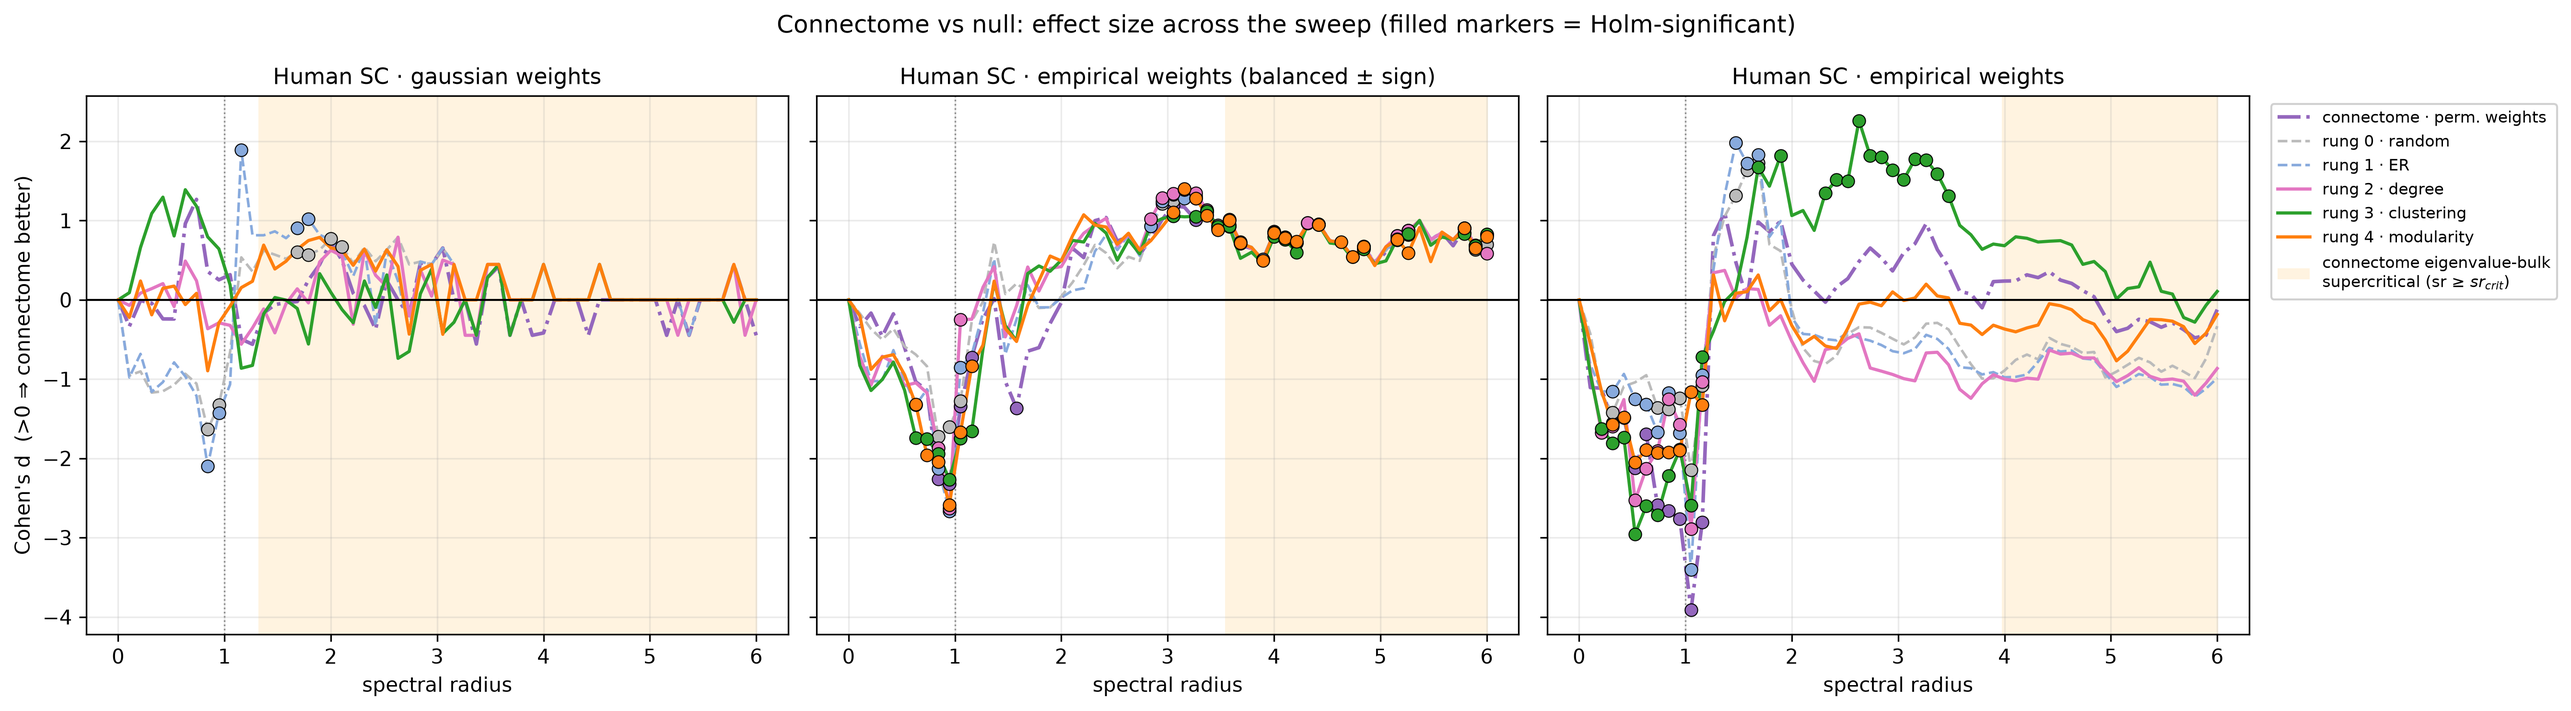
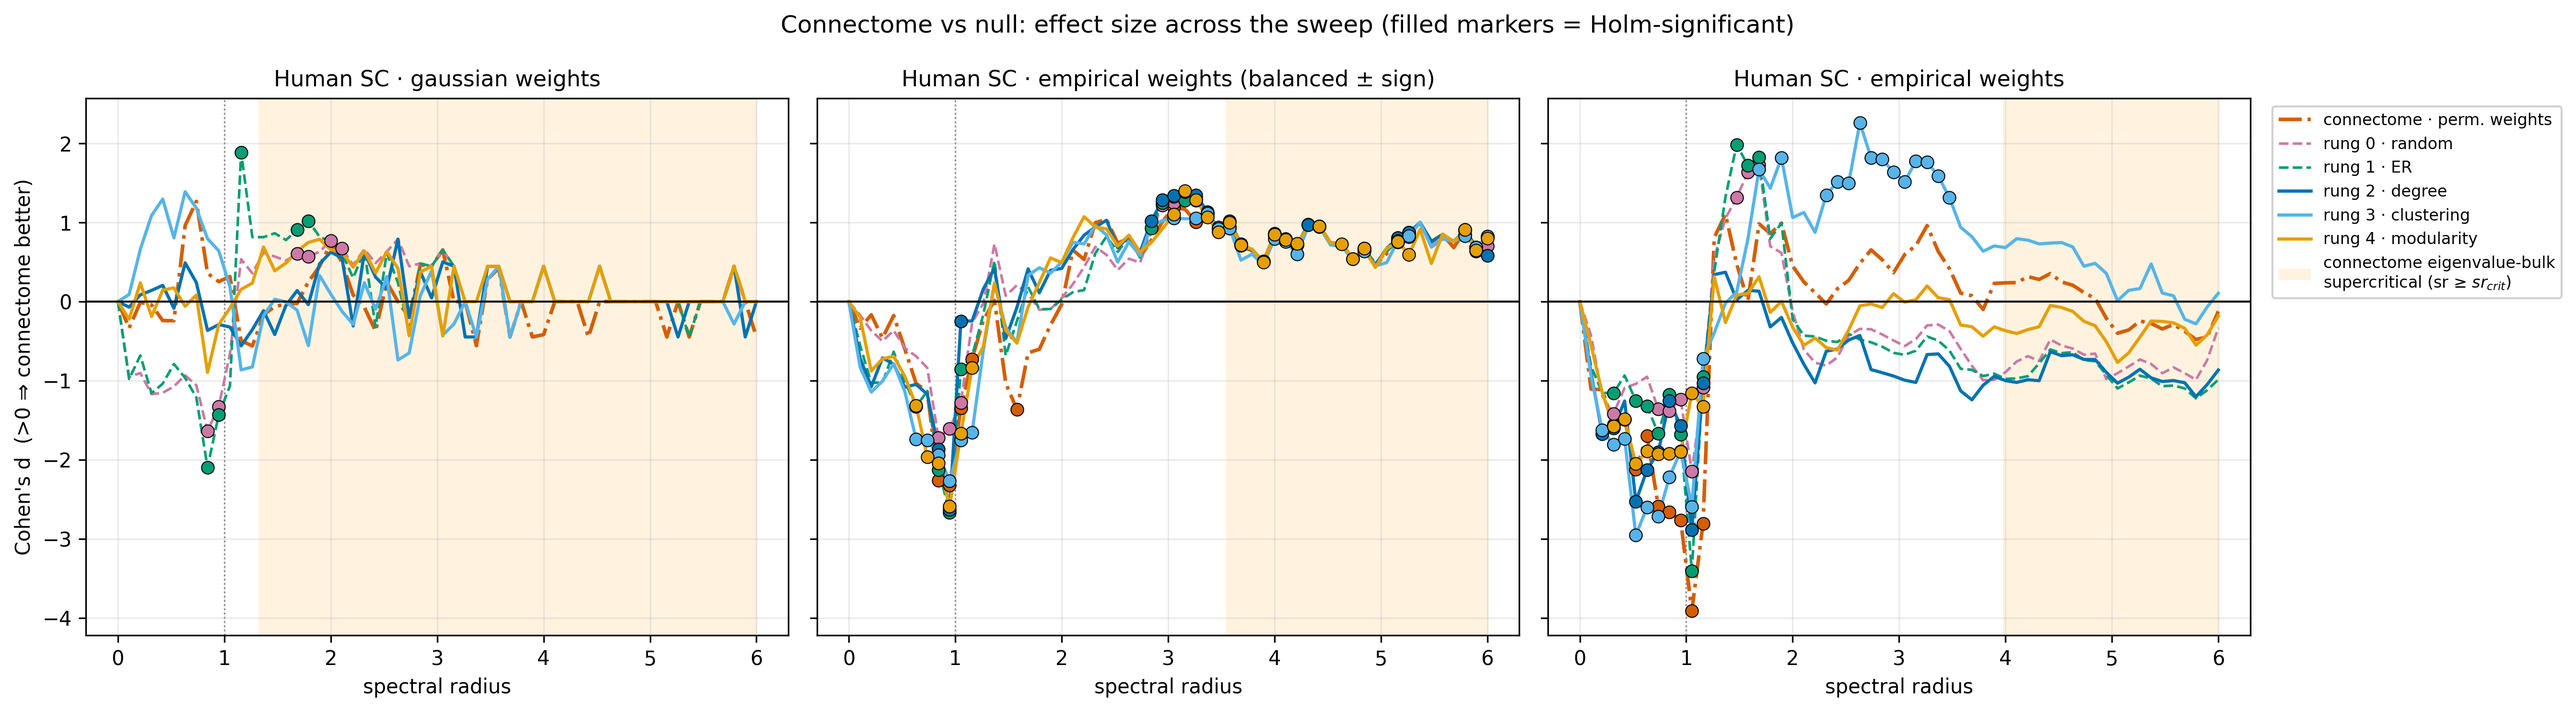
feat(style): move the thesis palette to Okabe-Ito, and replot the task figures
The session-0 palette put the three nulls on purple #9467bd / pink #e377c2 / light
blue #88aadd. That is weak under deuteranopia and collapses in greyscale, which in
figures whose whole job is telling four substrates apart is a defect rather than a
taste question. Okabe-Ito is safe under all three common dichromacies and separates
by luminance in greyscale. It was already the palette of the committed E0.4 figures
(eigenspectrum/common.VARIANT_COLOR), so this also ends a split that existed between
those and the sweep.

`report/figlib/style.VARIANT_COLOUR` and `src/experiment/plots._VARIANT_STYLE` move
TOGETHER, in this commit, because style.check_colour_consistency() asserts they are
equal and the smoke entry point runs it. Splitting them across commits would leave a
revision where every figure build raises.

CONVENTIONS' colour clause carries a dated amendment marking this a deliberate
one-time change and NOT a precedent; the "one substrate, one colour, thesis-wide"
contract is unchanged.

Re-rendering the 22 tracked variant-styled task figures cost no compute. Each task's
run.py:main calls runner.run_matrix before plots.run, so invoking it would re-run the
experiment (against CONVENTIONS working rule 4) -- but plots.run needs only the config
and the frozen results.parquet / stats_*.parquet, all already on disk. The new
tools/replot_task_figures.py rebuilds each config through that task's own
[…]

diff --git a/tools/replot_task_figures.py b/tools/replot_task_figures.py
@@ -1,0 +1,142 @@
+"""Re-render the per-task figures from frozen results. No simulation.
+
+Needed whenever the shared variant palette moves: `src/experiment/plots._VARIANT_STYLE`
+is the colour source for every `*_vs_spectral_radius.png` / `*_factorial.png` under
+`experiments/*/`, and `report/figlib/style.check_colour_consistency()` asserts the sweep
+figures use the same one. Change the palette and the committed task figures are stale
+until this runs.
+
+**Why this exists rather than `python -m experiments.human.human_mc.run`:** each task's
+`run.py:main` calls `runner.run_matrix(...)` before `stats.run` / `plots.run`, so
+invoking it re-runs the whole experiment. `plots.run(cfg)` needs only `cfg`, the frozen
+`results.parquet` and the frozen `stats_*.parquet`, all of which are already on disk.
+This module rebuilds each task's config exactly as its `run.py` does -- reusing that
+module's own `build_config`, so the two cannot drift -- and calls `plots.run` alone.
+
+Two config fields need care and are taken from the task's `run.py`, not guessed:
+
+* `supercritical_span`, which `run.py` sets from
+  `builder.connectome_supercritical_radii(...)`. That is an eigendecomposition of the
+  connectome per condition -- seconds, no reservoir simulation.
+* the sweep grid at N=1000, which was widened past the default [0, 4] (`sr_crit` rises
+  with N). It is read back off the frozen `results.parquet` rather than reconstructed.
+
+Mackey-Glass is included: `PREREG_MACKEY_GLASS.md` sections 1 to 3 are written and
+committed, so `CONVENTIONS` working rule 6 no longer holds it back.
+
+    python -m tools.replot_task_figures --list      # what would be written
+    python -m tools.replot_task_figures             # write them
+"""
+
+import importlib
+import sys
+from pathlib import Path
+
+_ROOT = Path(__file__).resolve().parents[1]
+if str(_ROOT) not in sys.path:
+    sys.path.insert(0, str(_ROOT))
+
+from src.reservoir import blas  # noqa: F401,E402  (limit BLAS threads; import early)
+from src.experiment import plots  # noqa: E402
+
+
+def _frozen_sweep(cfg):
+    """The spectral-radius grid actually present in the frozen results."""
+    import pandas as pd
+    sweep = sorted(pd.read_parquet(cfg.results_parquet).spectral_radius.unique())
+    return [float(sr) for sr in sweep]
+
+
+def _human_single_metric(task_module: str, scale: int):
+    """human_mc / human_narma10: one metric, config built as run.py builds it."""
+    from experiments.human import matrix_config
+    from experiments.human.substrates import HumanSubstrateBuilder
+
+    run = importlib.import_module(f"experiments.human.{task_module}.run")
+    cfg = run.build_config()
+    cfg.results_dir = cfg.results_dir / f"scale_{scale}"
+    cfg.figures_dir = cfg.figures_dir / f"scale_{scale}"
+    if scale != matrix_config.SCALE:
+        cfg.spectral_radii = _frozen_sweep(cfg)
+        cfg.supercritical_radii = [sr for sr in cfg.spectral_radii if sr >= 1.25]
+    builder = HumanSubstrateBuilder(scale=scale)
+    cfg.supercritical_span = builder.connectome_supercritical_radii(cfg.conditions)
+    return [cfg]
+
+
+def _human_lorenz(scale: int):
+    """human_lorenz: one matrix run, two metrics, one figure set per metric."""
+    from experiments.human import matrix_config
+    from experiments.human.substrates import HumanSubstrateBuilder
+
+    run = importlib.import_module("experiments.human.human_lorenz.run")
+    builder = HumanSubstrateBuilder(scale=scale)
+    span = builder.connectome_supercritical_radii(matrix_config.CONDITIONS)
+    configs = []
+    for metric in run.METRICS:
+        cfg = run.build_config(metric, scale, None, span)
+        if scale != matrix_config.SCALE:
+            cfg.spectral_radii = _frozen_sweep(cfg)
+            cfg.supercritical_radii = [sr for sr in cfg.spectral_radii if sr >= 1.25]
+        configs.append(cfg)
+    return configs
+
+
+def _celegans_mackey_glass(horizon: int):
+    """celegans_mackey_glass: results and figures are horizon-tagged by task_config."""
+    from experiments.celegans import matrix_config
+    from experiments.celegans.substrates import SubstrateBuilder
+
+    run = importlib.import_module("experiments.celegans.celegans_mackey_glass.run")
+    cfg = run.build_config(horizon)
+    builder = SubstrateBuilder()
+    cfg.supercritical_span = builder.connectome_supercritical_radii(
+        matrix_config.CONDITIONS)
+    return [cfg]
+
+
+# Every target whose figures are drawn with _VARIANT_STYLE and whose frozen results
+# are on disk. Each entry yields one or more configs (Lorenz yields two, one per metric).
+TARGETS = [
+    ("human_mc @ N=448", lambda: _human_single_metric("human_mc", 448)),
+    ("human_mc @ N=1000", lambda: _human_single_metric("human_mc", 1000)),
+    ("human_narma10 @ N=448", lambda: _human_single_metric("human_narma10", 448)),
+    ("human_narma10 @ N=1000", lambda: _human_single_metric("human_narma10", 1000)),
+    ("human_lorenz @ N=448", lambda: _human_lorenz(448)),
+    ("human_lorenz @ N=1000", lambda: _human_lorenz(1000)),
+    ("celegans_mackey_glass h=84", lambda: _celegans_mackey_glass(84)),
+    ("celegans_mackey_glass h=300", lambda: _celegans_mackey_glass(300)),
+]
+
+
+def main(argv) -> int:
+    listing = "--list" in argv
+    failures, written = [], 0
+    for label, build in TARGETS:
+        try:
+            configs = build()
+        except Exception as exc:                      # noqa: BLE001
+            print(f"  [SKIP] {label}: config build failed -- {exc}")
+            failures.append(label)
+            continue
+        for cfg in configs:
+            if not cfg.results_parquet.exists():
+                print(f"  [SKIP] {label} ({cfg.metric}): no frozen results at "
+                      f"{cfg.results_parquet}")
+                failures.append(f"{label}/{cfg.metric}")
+                continue
+            if listing:
+                print(f"  [would write] {label} ({cfg.metric}) -> {cfg.figures_dir}")
+                continue
+            print(f"  [replot] {label} ({cfg.metric})", flush=True)
+            plots.run(cfg)
+            written += 1
+    if failures:
+        print(f"\n{len(failures)} target(s) skipped: {', '.join(failures)}")
+    print(f"\n{'listed' if listing else f'replotted {written} figure set(s)'}; "
+          f"{len(failures)} skipped.")
+    return 1 if failures else 0
+
+
+if __name__ == "__main__":
+    sys.exit(main(sys.argv[1:]))

diff --git a/report/figlib/style.py b/report/figlib/style.py
@@ -25,16 +25,28 @@ FORMATS = ("pdf", "png")
 
 # ------------------------------------------------------------------------- variants
 # Fixed in session 0, held across every figure. Never varied.
+#
+# **Moved to Okabe-Ito in session 1, deliberately and thesis-wide.** The session-0 set
+# (purple #9467bd / pink #e377c2 / light blue #88aadd for the three nulls) is weak under
+# deuteranopia and collapses in greyscale, which for a figure whose whole job is telling
+# four substrates apart is a defect rather than a taste question. Okabe-Ito is
+# colourblind-safe under deuteranopia, protanopia and tritanopia and separates by
+# luminance in greyscale. It was already the palette of the committed E0.4 figures
+# (`experiments/human/analysis/eigenspectrum/common.VARIANT_COLOR`), so this change also
+# ends a split that existed between those figures and the sweep.
+#
+# `src/experiment/plots._VARIANT_STYLE` moved with it in the same commit --
+# `check_colour_consistency()` asserts the two are equal and would raise otherwise.
 VARIANT_COLOUR = {
-    "connectome": "black",
-    "connectome_weight_permuted": "#9467bd",
-    "degree_rewire": "#e377c2",
-    "erdos_renyi": "#88aadd",
-    "random_gaussian": "#bbbbbb",
+    "connectome": "#000000",                   # black
+    "connectome_weight_permuted": "#D55E00",   # vermillion
+    "degree_rewire": "#0072B2",                # blue
+    "erdos_renyi": "#009E73",                  # bluish green
+    "random_gaussian": "#CC79A7",              # reddish purple
     # The two upper rungs. CONVENTIONS names the five above; these are needed because
     # Probe 3's ladder is seven rungs, and one colour per substrate has to hold there too.
-    "clustering_rewire": "#2ca02c",
-    "modularity_rewire": "#ff7f0e",
+    "clustering_rewire": "#56B4E9",            # sky blue
+    "modularity_rewire": "#E69F00",            # orange
 }
 VARIANT_LABEL = {
     "connectome": "connectome",
@@ -44,6 +56,44 @@ VARIANT_LABEL = {
     "random_gaussian": "rung 0 · random",
     "clustering_rewire": "rung 3 · clustering",
     "modularity_rewire": "rung 4 · modularity",
+}
+# Two-line categorical-axis labels. VARIANT_LABEL is a legend label and is too wide
+# for a four-bar x-axis at 9pt -- splitting on " · " leaves "connectome\nperm.
+# weights", which collides with its neighbours. Same names, same order, wrapped to
+# fit; use these for tick labels and VARIANT_LABEL for legends.
+# Plain substrate names for small-multiple panel titles, where the panels contrast the
+# substrates themselves rather than their position on the null ladder, so the rung
+# numbering carried by VARIANT_LABEL is noise. Matches the committed E0.4 figure's
+# titles, which is where this idiom comes from.
+VARIANT_TITLE = {
+    "connectome": "Connectome",
+    "connectome_weight_permuted": "Weight-permuted",
+    "degree_rewire": "Degree-matching",
+    "erdos_renyi": "Erdős–Rényi",
+    "random_gaussian": "Random gaussian",
+    "clustering_rewire": "Clustering-matching",
+    "modularity_rewire": "Modularity-matching",
+}
+VARIANT_TICK = {
+    "connectome": "connec-\ntome",
+    "connectome_weight_permuted": "perm.\nweights",
+    "degree_rewire": "rung 2\ndegree",
+    "erdos_renyi": "rung 1\nER",
+    "random_gaussian": "rung 0\nrandom",
+    "clustering_rewire": "rung 3\nclust.",
+    "modularity_rewire": "rung 4\nmodul.",
+}
+# Wrapped VARIANT_TITLE, for a categorical axis inside a figure whose other panels are
+# titled with VARIANT_TITLE. Mixing the two naming schemes in one figure (rung numbers
+# on the axis, plain names on the panels) makes them read as different sets of things.
+VARIANT_TITLE_TICK = {
+    "connectome": "Connectome",
+    "connectome_weight_permuted": "Weight-\npermuted",
+    "degree_rewire": "Degree-\nmatching",
+    "erdos_renyi": "Erdős–\nRényi",
+    "random_gaussian": "Random\ngaussian",
+    "clustering_rewire": "Clustering-\nmatching",
+    "modularity_rewire": "Modularity-\nmatching",
 }
 # Substrate first, then the null ladder outward from it. Legends follow this order.
 VARIANT_ORDER = ["connectome", "connectome_weight_permuted", "degree_rewire",
@@ -139,8 +189,26 @@ def apply_rcparams() -> None:
 
 
 # ----------------------------------------------------------------------- furniture
-def panel_label(ax, letter: str, dx: float = -0.08, dy: float = 1.06) -> None:
-    """Lower-case bold panel label at the top left, per the style contract."""
+def panel_label(ax, letter: str, dx: float = -0.08, dy: float = 1.06,
+                offset_points: tuple = None) -> None:
+    """Lower-case bold panel label at the top left, per the style contract.
+
+    ``dx`` / ``dy`` are **axes fractions**, so the absolute offset they buy scales with
+    the panel. That is fine while a figure's panels are all one size, which is true of
+    every figure here except F1, and it is why this remains the default.
+
+    Pass ``offset_points=(dx_pt, dy_pt)`` instead when a figure mixes panel sizes: the
+    label is then placed a fixed distance from the axes' top-left corner regardless of
+    how tall the panel is, which is what makes a set of labels line up. F1 stacks four
+    short rows beside two tall panels (91.8 px against 203.0 px), where the same ``dy``
+    put the 'e' 21.5 px higher on the page than the 'a' beside it.
+    """
+    if offset_points is not None:
+        ax.annotate(letter, xy=(0.0, 1.0), xycoords="axes fraction",
+                    xytext=offset_points, textcoords="offset points",
+                    fontsize=PANEL_LABEL_SIZE, fontweight="bold",
+                    va="bottom", ha="right")
+        return
     ax.text(dx, dy, letter, transform=ax.transAxes, fontsize=PANEL_LABEL_SIZE,
             fontweight="bold", va="top", ha="right")
 

diff --git a/src/experiment/plots.py b/src/experiment/plots.py
@@ -14,15 +14,20 @@ import matplotlib.pyplot as plt
 import matplotlib.patches as mpatches
 import pandas as pd
 
+# Okabe-Ito, colourblind-safe and greyscale-separable by luminance. Moved here from the
+# session-0 set in session 1, thesis-wide and in one commit; see the rationale on
+# `report/figlib/style.VARIANT_COLOUR`, which `style.check_colour_consistency()` asserts
+# this dict equals. **Change one and you must change the other**, or the sweep figures
+# and the per-task figures put the same substrate in two colours.
 _VARIANT_STYLE = {
-    "connectome": dict(color="black", lw=2.4, zorder=5, marker="o", ms=4),
-    "connectome_weight_permuted": dict(color="#9467bd", lw=1.8, ls="-.",
+    "connectome": dict(color="#000000", lw=2.4, zorder=5, marker="o", ms=4),
+    "connectome_weight_permuted": dict(color="#D55E00", lw=1.8, ls="-.",
                                        marker="s", ms=3, zorder=4),
-    "random_gaussian": dict(color="#bbbbbb", lw=1.3, ls="--"),
-    "erdos_renyi": dict(color="#88aadd", lw=1.3, ls="--"),
-    "degree_rewire": dict(color="#e377c2", lw=1.6),
-    "clustering_rewire": dict(color="#2ca02c", lw=1.6),
-    "modularity_rewire": dict(color="#ff7f0e", lw=1.6),
+    "random_gaussian": dict(color="#CC79A7", lw=1.3, ls="--"),
+    "erdos_renyi": dict(color="#009E73", lw=1.3, ls="--"),
+    "degree_rewire": dict(color="#0072B2", lw=1.6),
+    "clustering_rewire": dict(color="#56B4E9", lw=1.6),
+    "modularity_rewire": dict(color="#E69F00", lw=1.6),
 }
 _VARIANT_LABEL = {
     "connectome": "connectome",

diff --git a/report/CONVENTIONS.md b/report/CONVENTIONS.md
@@ -54,6 +54,17 @@ checked against `TIER0`.
 Fixed in session 0 and held across every figure so the chapters sit together.
 
 - **Variant colours** (never varied), assigned once in `report/figlib/style.py`.
+  **Amended once, in session 1: the palette is Okabe-Ito.** The session-0 set put the
+  three nulls on purple / pink / light blue, which is weak under deuteranopia and
+  collapses in greyscale — a defect in figures whose job is telling four substrates
+  apart. Okabe-Ito is safe under all three common dichromacies and separates by
+  luminance in greyscale, and it was already the palette of the committed E0.4 figures,
+  so the change also ended a split between those and the sweep. `figlib/style.py` and
+  `src/experiment/plots._VARIANT_STYLE` moved together in one commit and all 15 sweep
+  figures plus the variant-styled per-task figures were re-rendered from frozen
+  parquets. **This was a deliberate one-time amendment and is not a precedent**: the
+  contract below still holds, and a session that wants a different colour reports and
+  stops.
   **Four rungs carry almost everything**: `connectome`, `connectome_weight_permuted`,
   `degree_rewire`, `erdos_renyi` are the ladder the criticality-matched programme sweeps
   and the only variants in 12 of the 13 variant-bearing figure sources.
